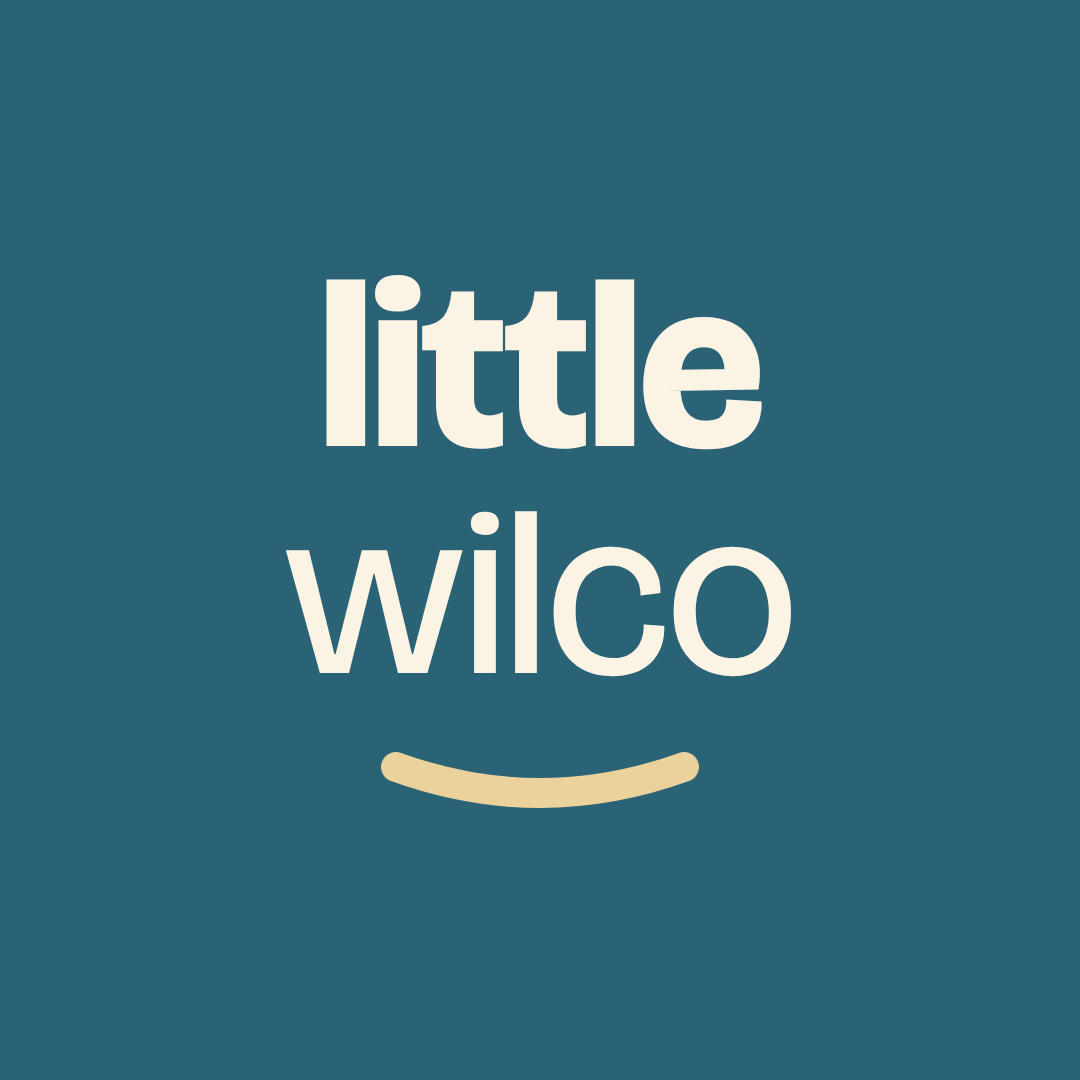
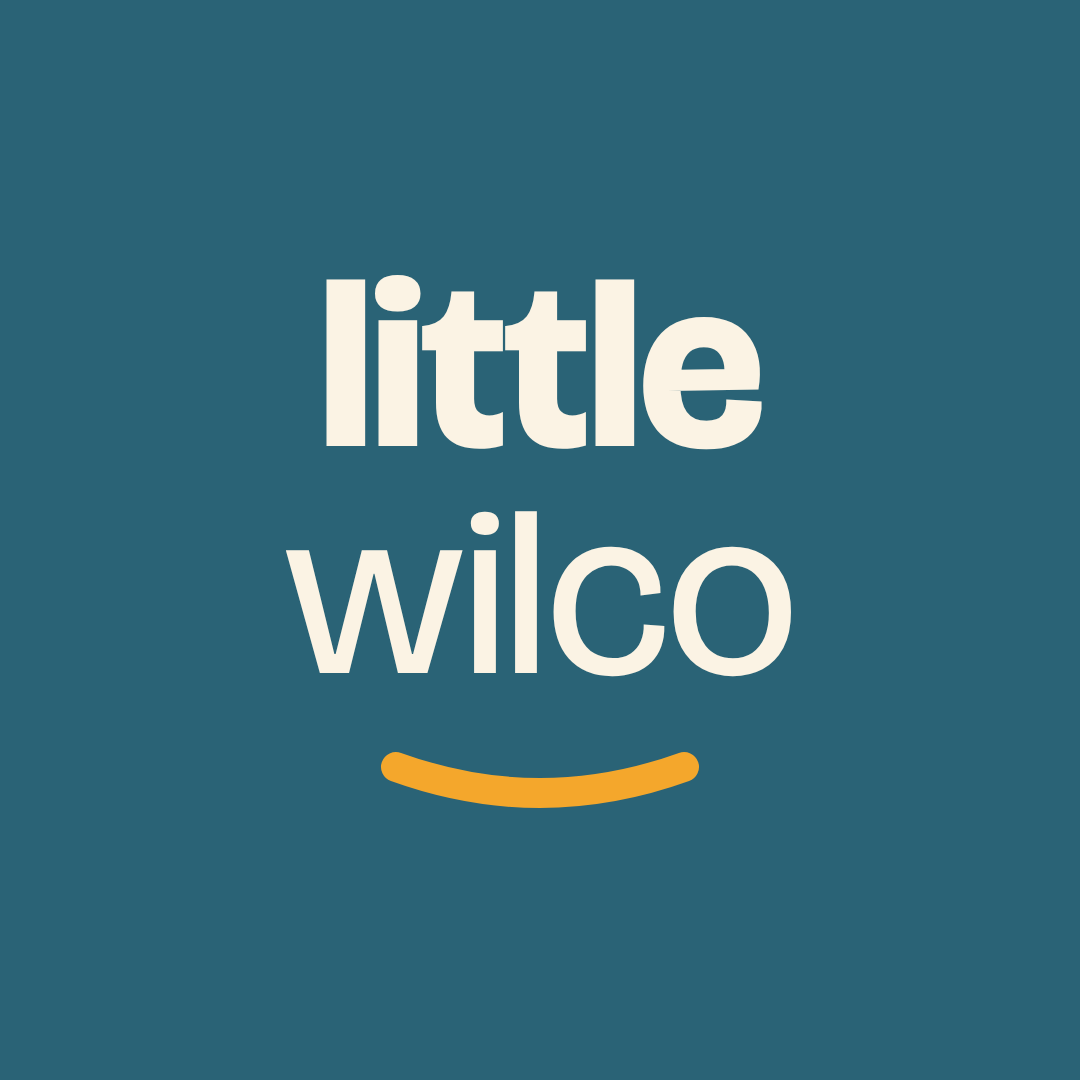
Brand mark: smile to Sun #F4A72C

Changed region(s): [[0.3361, 0.6722, 0.6417, 0.7639]]

diff --git a/src/components/Wordmark.tsx b/src/components/Wordmark.tsx
@@ -27,7 +27,7 @@ export default function Wordmark({ size = 26, smile = true, className }: Props) 
           <path
             d="M6 5 C 26 22, 74 22, 94 5"
             fill="none"
-            stroke="var(--lw-sun-light)"
+            stroke="var(--lw-sun)"
             strokeWidth="11"
             strokeLinecap="round"
           />
